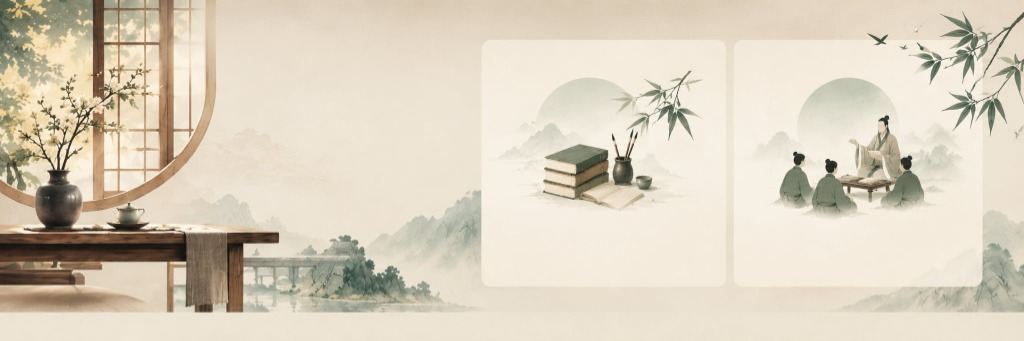
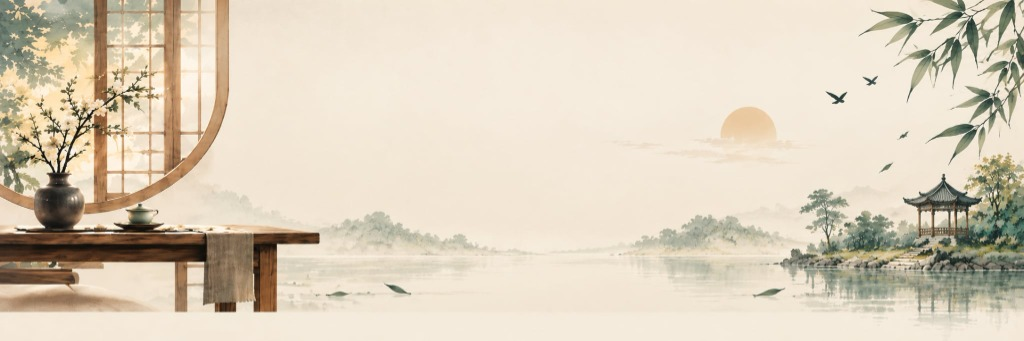
feat: replace page 3 background with exact unboxed master painting and fix text layout

diff --git a/src/components/LearningModes.tsx b/src/components/LearningModes.tsx
@@ -2,30 +2,33 @@
 
 import Link from "next/link";
 import Image from "next/image";
-import { User, Users, Check } from "lucide-react";
 
 export default function LearningModes() {
   return (
     <section className="w-full relative overflow-hidden py-14 sm:py-20 my-6">
-      {/* Full-width edge-to-edge background image (Tràn viền 100%) */}
+      {/* Full-width master painted Shanshui background (Tràn viền 100%) */}
       <div className="absolute inset-0 pointer-events-none select-none z-0">
         <Image
           src="/theme/learning-modes-master-bg.jpg"
-          alt="Hai hình thức học linh hoạt - Tranh thủy mặc trà đạo và học tập"
+          alt="Tranh thủy mặc trà đạo và học tập"
           fill
           className="object-cover object-center"
           priority
         />
-        {/* Subtle top and bottom feather gradient to integrate seamlessly into page */}
-        <div className="absolute inset-x-0 top-0 h-8 bg-gradient-to-b from-[#f7efe2]/60 to-transparent" />
-        <div className="absolute inset-x-0 bottom-0 h-8 bg-gradient-to-t from-[#f7efe2]/60 to-transparent" />
+        {/* Soft edge blends to integrate seamlessly into page */}
+        <div className="absolute inset-x-0 top-0 h-6 bg-gradient-to-b from-[#f7efe2]/60 to-transparent" />
+        <div className="absolute inset-x-0 bottom-0 h-6 bg-gradient-to-t from-[#f7efe2]/60 to-transparent" />
       </div>
 
       {/* Main Content Container */}
       <div className="max-w-7xl mx-auto px-6 sm:px-10 lg:px-12 relative z-10">
-        <div className="grid grid-cols-1 lg:grid-cols-12 gap-8 lg:gap-10 items-center">
-          {/* Left Title Column: Positioned beside the scholar tea desk */}
-          <div className="lg:col-span-5 xl:col-span-4 pl-0 lg:pl-16 xl:pl-24">
+        <div className="grid grid-cols-1 lg:grid-cols-12 gap-6 lg:gap-8 items-center min-h-[380px] lg:min-h-[440px]">
+          {/* Spacer Column: Leaves the tea desk, window, and plum vase on the left completely unblocked */}
+          <div className="hidden lg:block lg:col-span-2 xl:col-span-3 pointer-events-none" />
+
+          {/* Title Column: Positioned in the open misty sky area */}
+          <div className="lg:col-span-4 xl:col-span-3 flex flex-col justify-center">
+            {/* Red Seal */}
             <div className="inline-flex items-center gap-2 mb-3">
               <span className="w-5 h-5 rounded-xs bg-[#a8383b] text-white flex items-center justify-center text-[10px] font-serif font-bold shadow-2xs">
                 印
@@ -35,48 +38,50 @@ export default function LearningModes() {
               </span>
             </div>
 
-            <h2 className="text-3xl sm:text-4xl lg:text-[42px] font-serif font-bold text-[#173d2d] leading-[1.2] tracking-tight mb-4 drop-shadow-2xs">
+            {/* Headline */}
+            <h2 className="text-3xl sm:text-4xl lg:text-[40px] font-serif font-bold text-[#173d2d] leading-[1.2] tracking-tight mb-3.5 drop-shadow-2xs">
               Hai hình thức học <br />
               linh hoạt
             </h2>
 
-            <p className="text-xs sm:text-sm text-[#2c3e33] leading-relaxed max-w-sm font-sans font-medium">
+            {/* Subtitle */}
+            <p className="text-xs sm:text-sm text-[#1e3428] leading-relaxed max-w-xs font-sans font-medium">
               Lựa chọn phương thức phù hợp với mục tiêu và thời gian của bạn.
             </p>
           </div>
 
-          {/* Right Column: 2 Choice Cards overlaid right on top of the pre-painted frames */}
-          <div className="lg:col-span-7 xl:col-span-8 flex flex-col sm:flex-row justify-center lg:justify-end gap-5 sm:gap-6 lg:gap-8">
+          {/* Right Column: 2 Choice Cards positioned over the lake before the pagoda */}
+          <div className="lg:col-span-6 xl:col-span-6 flex flex-col sm:flex-row gap-5 sm:gap-6 justify-center lg:justify-end pr-0 lg:pr-4">
             {/* Card 1: Tự học chủ động */}
             <Link
               href="/s/home"
-              className="bg-[#faf7f0]/95 backdrop-blur-xs rounded-2xl p-6 sm:p-7 border border-[#d8cdb8] flex flex-col justify-between shadow-md hover:shadow-xl hover:border-[#1a3d2f]/50 transition duration-300 group max-w-sm w-full cursor-pointer"
+              className="bg-[#faf6ed]/92 backdrop-blur-[2px] rounded-3xl p-6 sm:p-7 border border-[#d8cdb8] flex flex-col justify-between shadow-md hover:shadow-xl hover:border-[#1a3d2f]/50 transition duration-300 group max-w-xs w-full cursor-pointer"
             >
               <div>
-                {/* Round soft green circle with student silhouette */}
-                <div className="w-16 h-16 rounded-full bg-[#dbe5dd] flex items-center justify-center text-[#1a3d2f] mb-5 mx-auto group-hover:scale-105 transition-transform shadow-2xs">
-                  <User className="w-8 h-8" />
+                {/* Traditional Round Halo with Scholar studying */}
+                <div className="w-16 h-16 rounded-full bg-[#d6e2d9] flex items-center justify-center text-[#1a3d2f] mb-4 mx-auto shadow-2xs group-hover:scale-105 transition-transform">
+                  <span className="text-2xl select-none">💻</span>
                 </div>
 
                 <h3 className="font-serif font-bold text-lg sm:text-xl text-[#173d2d] mb-4 text-center">
                   Tự học chủ động
                 </h3>
 
-                <ul className="text-xs sm:text-[13px] text-[#2b3e32] space-y-3 mb-6 font-sans">
+                <ul className="text-xs sm:text-[13px] text-[#24362b] space-y-3 mb-6 font-sans">
                   <li className="flex items-center gap-2.5">
-                    <span className="w-4 h-4 rounded-sm border border-[#1a3d2f] flex items-center justify-center text-[10px] text-[#1a3d2f] font-bold">
+                    <span className="w-4 h-4 rounded-xs border border-[#1a3d2f] flex items-center justify-center text-[10px] text-[#1a3d2f] font-bold">
                       ✓
                     </span>
                     <span className="font-medium">Học theo nhịp riêng</span>
                   </li>
                   <li className="flex items-center gap-2.5">
-                    <span className="w-4 h-4 rounded-sm border border-[#1a3d2f] flex items-center justify-center text-[10px] text-[#1a3d2f] font-bold">
+                    <span className="w-4 h-4 rounded-xs border border-[#1a3d2f] flex items-center justify-center text-[10px] text-[#1a3d2f] font-bold">
                       ✓
                     </span>
                     <span className="font-medium">Có lộ trình đề xuất</span>
                   </li>
                   <li className="flex items-center gap-2.5">
-                    <span className="w-4 h-4 rounded-sm border border-[#1a3d2f] flex items-center justify-center text-[10px] text-[#1a3d2f] font-bold">
+                    <span className="w-4 h-4 rounded-xs border border-[#1a3d2f] flex items-center justify-center text-[10px] text-[#1a3d2f] font-bold">
                       ✓
                     </span>
                     <span className="font-medium">Hệ thống bài tập đa dạng</span>
@@ -85,10 +90,10 @@ export default function LearningModes() {
               </div>
 
               {/* Bottom circular arrow button */}
-              <div className="pt-2 border-t border-[#ede6d8] flex items-center justify-between">
+              <div className="pt-3 border-t border-[#ded5c2]/70 flex items-center justify-between">
                 <span className="text-xs font-bold text-[#173d2d]">Bắt đầu tự học</span>
-                <div className="w-8 h-8 rounded-full border border-[#b8ab97] flex items-center justify-center text-[#173d2d] group-hover:bg-[#1a3d2f] group-hover:text-white group-hover:border-[#1a3d2f] transition shadow-2xs">
-                  <span className="text-sm">→</span>
+                <div className="w-7 h-7 rounded-full border border-[#8a7b69] flex items-center justify-center text-[#173d2d] group-hover:bg-[#1a3d2f] group-hover:text-white group-hover:border-[#1a3d2f] transition shadow-2xs">
+                  <span className="text-xs">→</span>
                 </div>
               </div>
             </Link>
@@ -96,33 +101,33 @@ export default function LearningModes() {
             {/* Card 2: Học cùng giáo viên */}
             <Link
               href="/t/dashboard"
-              className="bg-[#faf7f0]/95 backdrop-blur-xs rounded-2xl p-6 sm:p-7 border border-[#d8cdb8] flex flex-col justify-between shadow-md hover:shadow-xl hover:border-[#a8383b]/50 transition duration-300 group max-w-sm w-full cursor-pointer"
+              className="bg-[#faf6ed]/92 backdrop-blur-[2px] rounded-3xl p-6 sm:p-7 border border-[#d8cdb8] flex flex-col justify-between shadow-md hover:shadow-xl hover:border-[#a8383b]/50 transition duration-300 group max-w-xs w-full cursor-pointer"
             >
               <div>
-                {/* Round soft green circle with teacher & students */}
-                <div className="w-16 h-16 rounded-full bg-[#dbe5dd] flex items-center justify-center text-[#1a3d2f] mb-5 mx-auto group-hover:scale-105 transition-transform shadow-2xs">
-                  <Users className="w-8 h-8" />
+                {/* Traditional Round Halo with Teacher & Students */}
+                <div className="w-16 h-16 rounded-full bg-[#d6e2d9] flex items-center justify-center text-[#1a3d2f] mb-4 mx-auto shadow-2xs group-hover:scale-105 transition-transform">
+                  <span className="text-2xl select-none">👥</span>
                 </div>
 
                 <h3 className="font-serif font-bold text-lg sm:text-xl text-[#173d2d] mb-4 text-center">
                   Học cùng giáo viên
                 </h3>
 
-                <ul className="text-xs sm:text-[13px] text-[#2b3e32] space-y-3 mb-6 font-sans">
+                <ul className="text-xs sm:text-[13px] text-[#24362b] space-y-3 mb-6 font-sans">
                   <li className="flex items-center gap-2.5">
-                    <span className="w-4 h-4 rounded-sm border border-[#a8383b] flex items-center justify-center text-[10px] text-[#a8383b] font-bold">
+                    <span className="w-4 h-4 rounded-xs border border-[#a8383b] flex items-center justify-center text-[10px] text-[#a8383b] font-bold">
                       ✓
                     </span>
                     <span className="font-medium">Tham gia lớp học với giáo viên</span>
                   </li>
                   <li className="flex items-center gap-2.5">
-                    <span className="w-4 h-4 rounded-sm border border-[#a8383b] flex items-center justify-center text-[10px] text-[#a8383b] font-bold">
+                    <span className="w-4 h-4 rounded-xs border border-[#a8383b] flex items-center justify-center text-[10px] text-[#a8383b] font-bold">
                       ✓
                     </span>
                     <span className="font-medium">Nhận bài được giao</span>
                   </li>
                   <li className="flex items-center gap-2.5">
-                    <span className="w-4 h-4 rounded-sm border border-[#a8383b] flex items-center justify-center text-[10px] text-[#a8383b] font-bold">
+                    <span className="w-4 h-4 rounded-xs border border-[#a8383b] flex items-center justify-center text-[10px] text-[#a8383b] font-bold">
                       ✓
                     </span>
                     <span className="font-medium">Có phản hồi và theo dõi tiến độ</span>
@@ -131,10 +136,10 @@ export default function LearningModes() {
               </div>
 
               {/* Bottom circular arrow button */}
-              <div className="pt-2 border-t border-[#ede6d8] flex items-center justify-between">
+              <div className="pt-3 border-t border-[#ded5c2]/70 flex items-center justify-between">
                 <span className="text-xs font-bold text-[#173d2d]">Lớp cô Ning Ning</span>
-                <div className="w-8 h-8 rounded-full border border-[#b8ab97] flex items-center justify-center text-[#173d2d] group-hover:bg-[#a8383b] group-hover:text-white group-hover:border-[#a8383b] transition shadow-2xs">
-                  <span className="text-sm">→</span>
+                <div className="w-7 h-7 rounded-full border border-[#8a7b69] flex items-center justify-center text-[#173d2d] group-hover:bg-[#a8383b] group-hover:text-white group-hover:border-[#a8383b] transition shadow-2xs">
+                  <span className="text-xs">→</span>
                 </div>
               </div>
             </Link>
